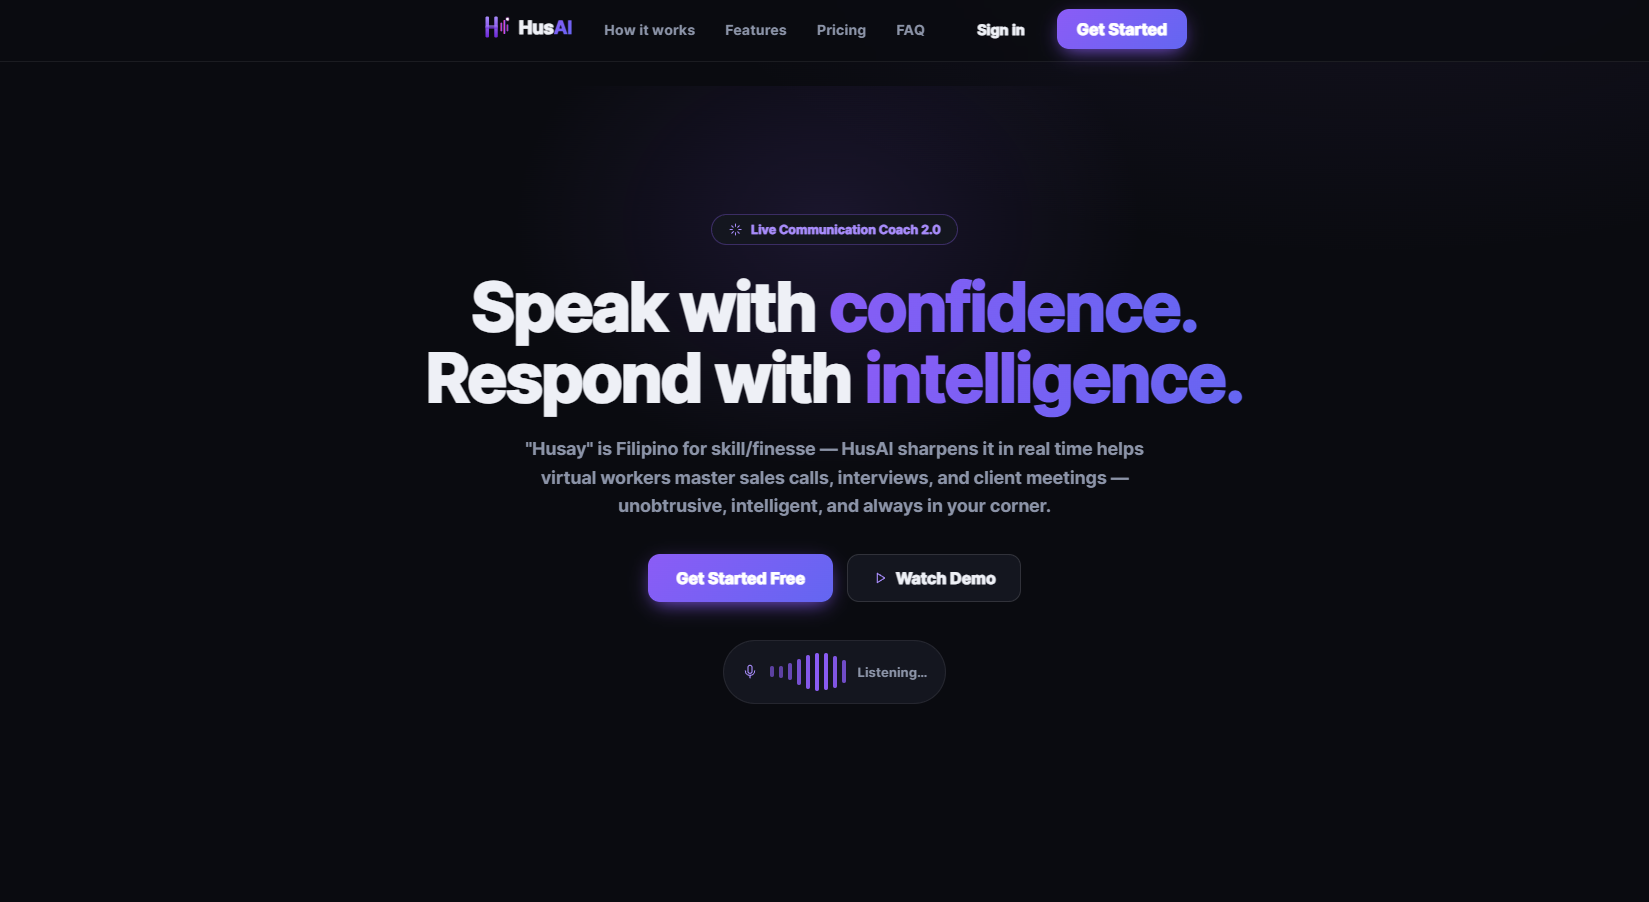
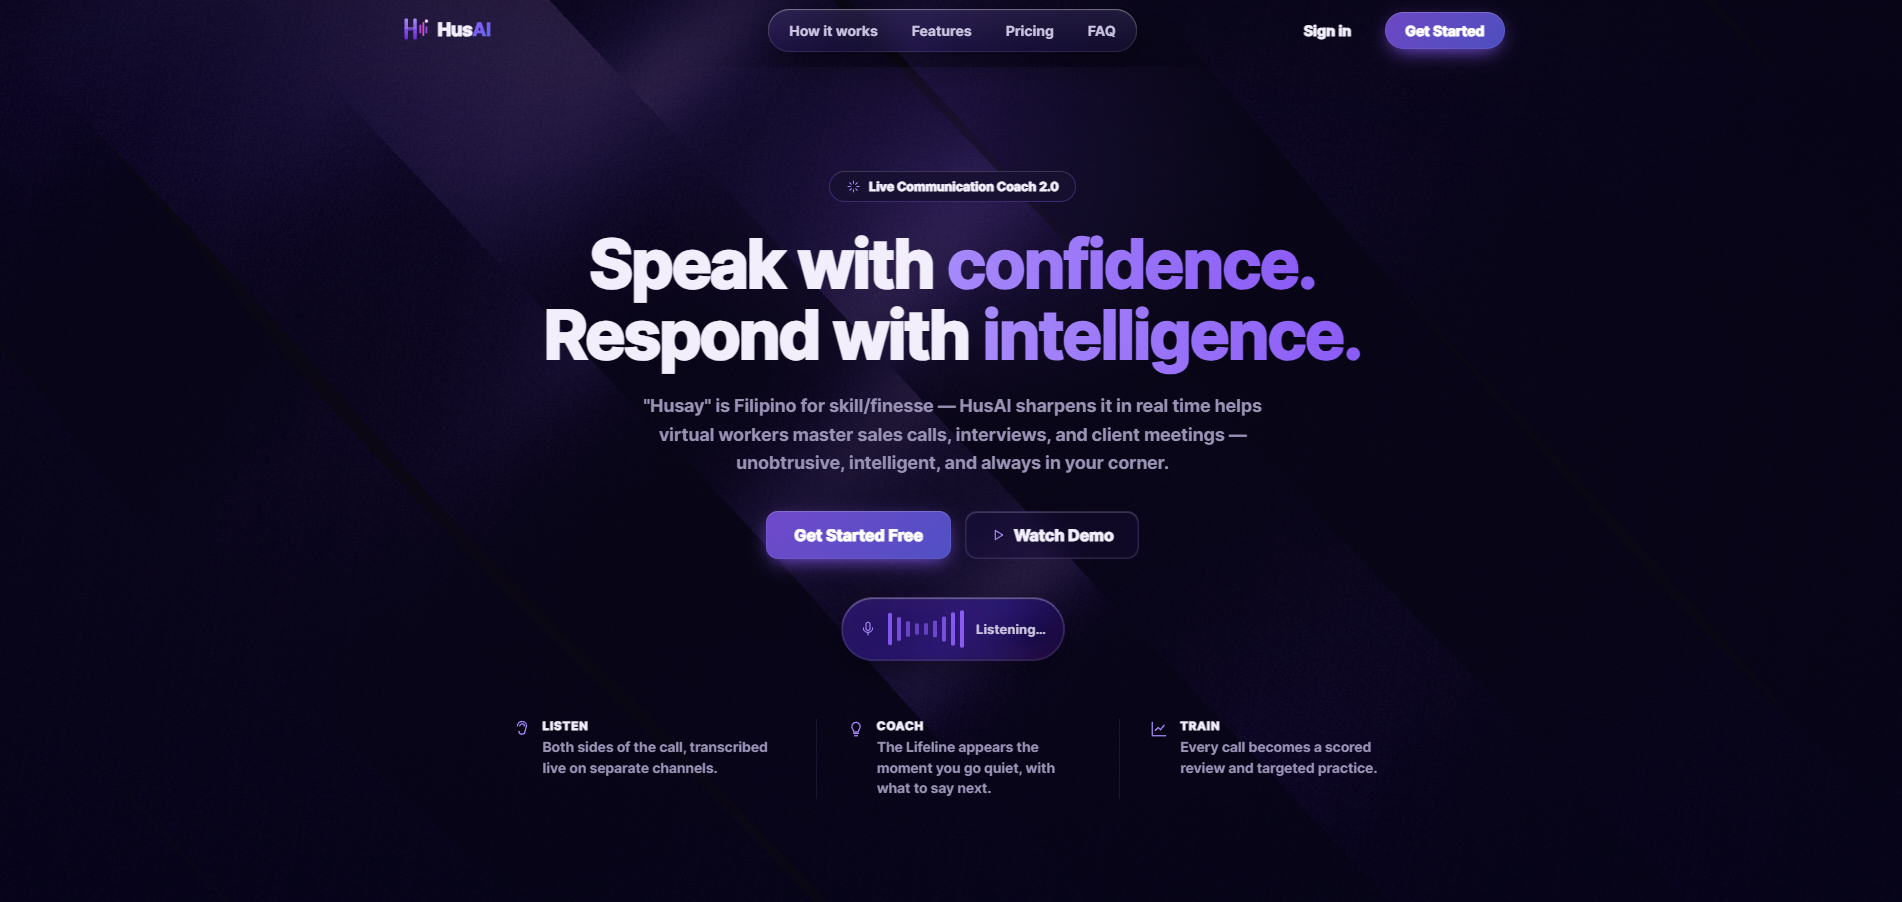
finalzie project

Changed region(s): [[0.0309, 0.0, 0.8041, 0.9002], [0.6186, 0.7761, 0.7423, 0.8692], [0.2784, 0.7761, 0.4021, 0.8692]]

diff --git a/components/Projects.tsx b/components/Projects.tsx
@@ -70,7 +70,7 @@ export default function Projects() {
 
 const webProjects: Project[] = [
   {
-    title: "IRequest",
+    title: "HusAI",
     description:
       "Virtual Assistants often struggle to respond confidently during live client calls. HusAI solves this with AI-powered real-time reply suggestions and post-call communication coaching. Developed as a scalable cross-platform SaaS through USTP's startup incubation program.",
     tech: ["React", "TypeScript", "Node.js", "Supabase"],
